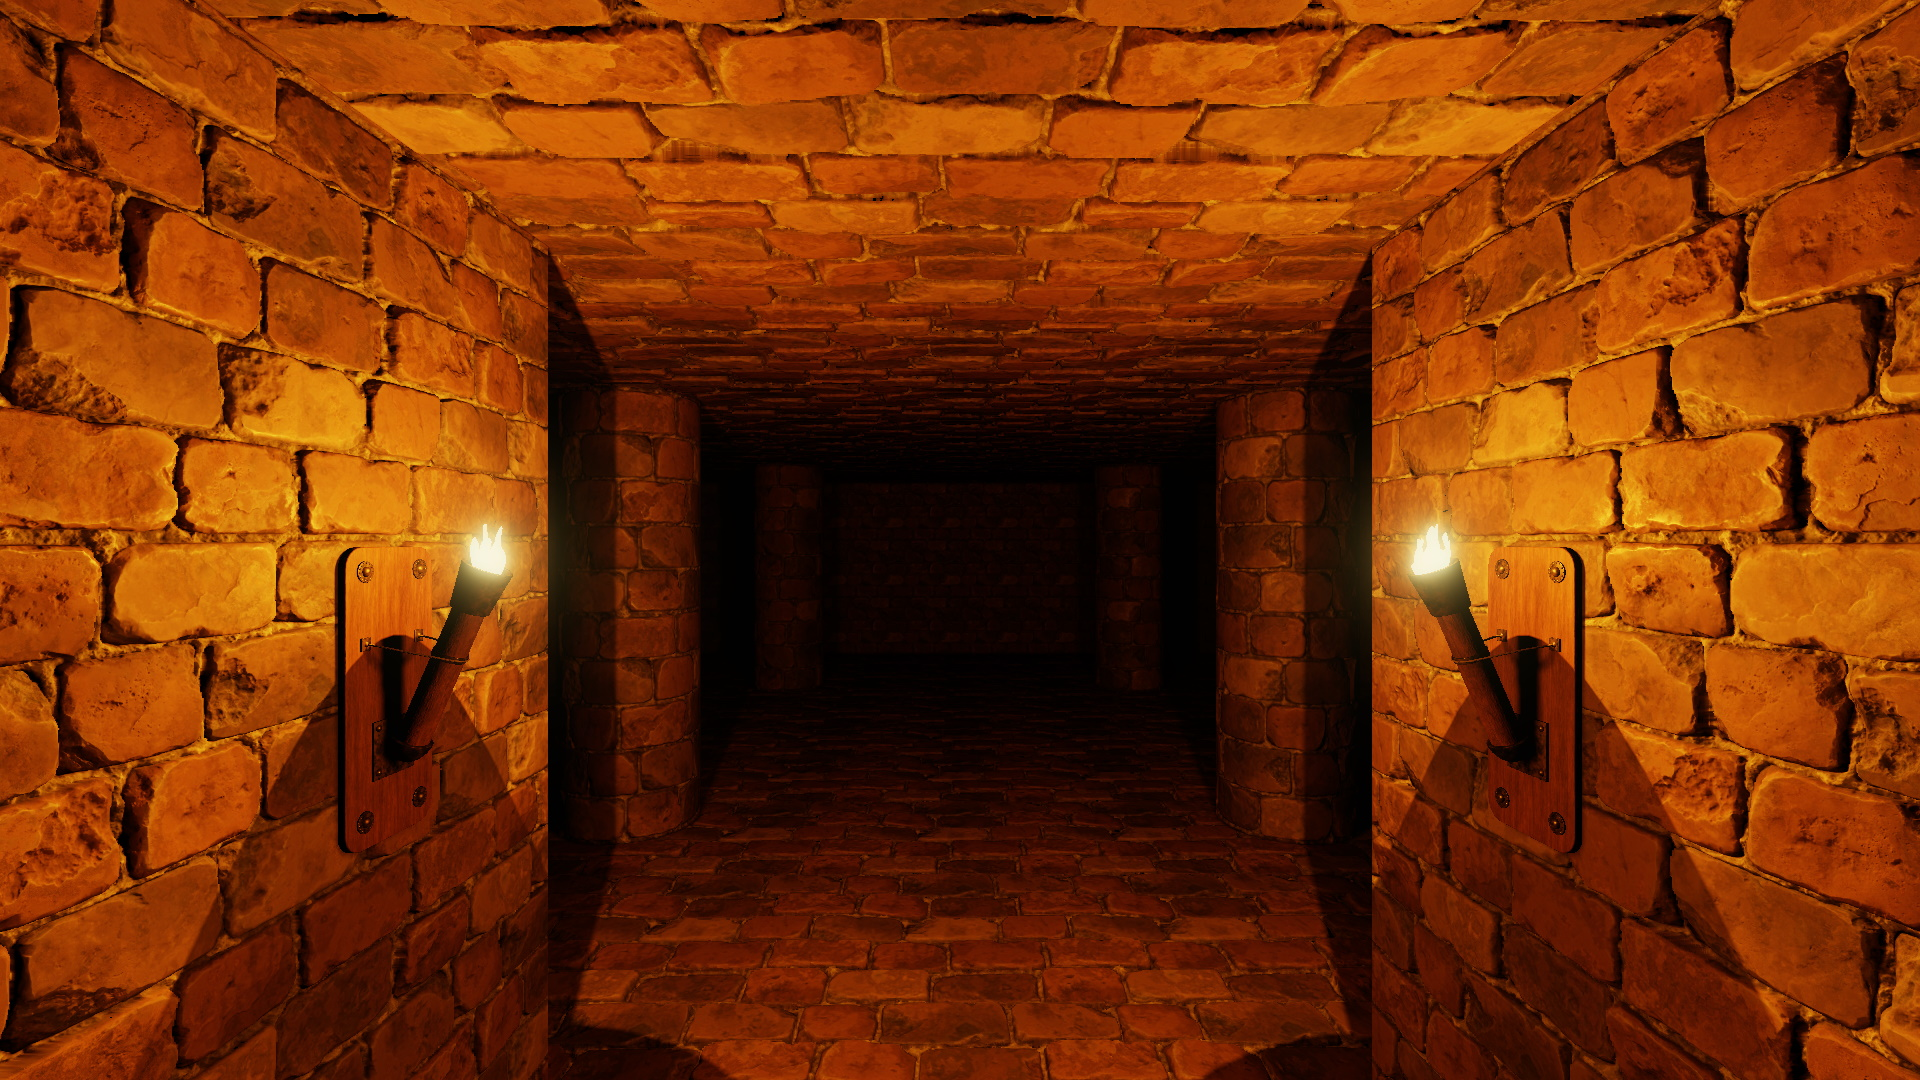
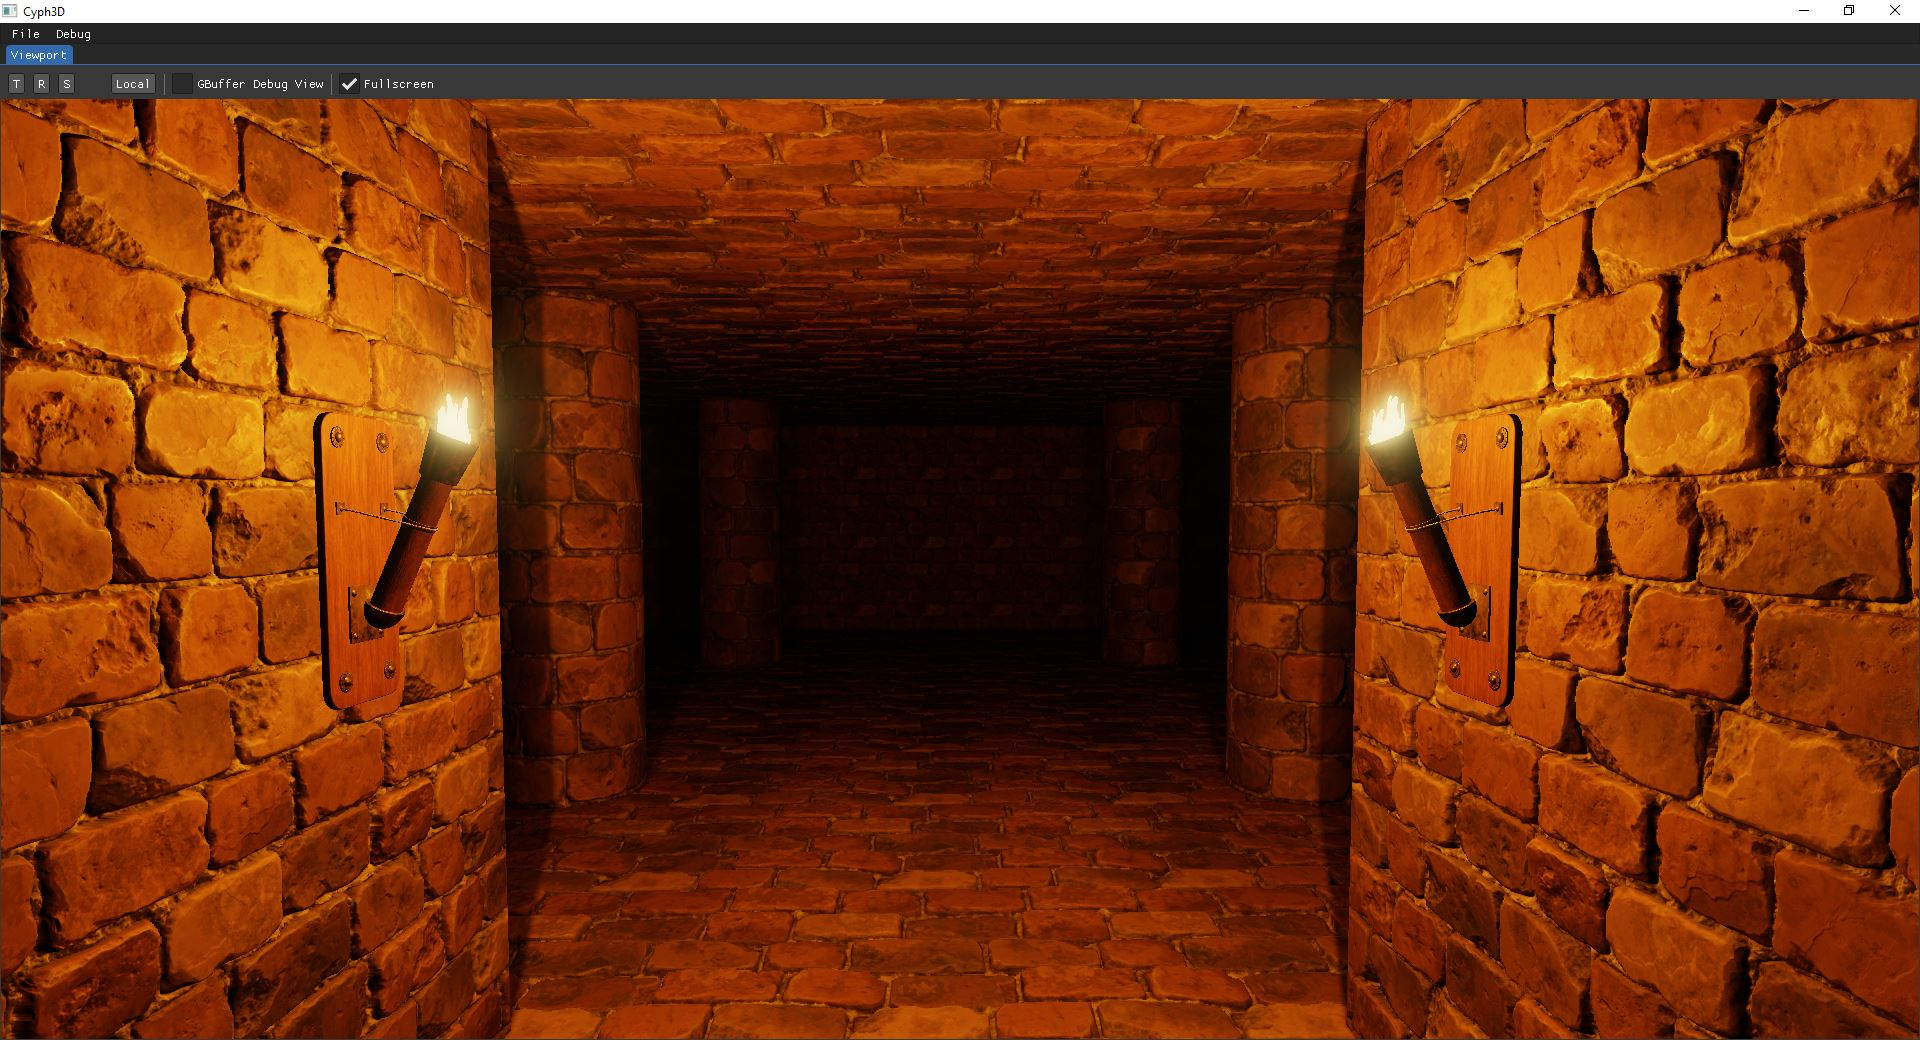
misc: updated screenshots and README

diff --git a/README.md b/README.md
@@ -3,20 +3,19 @@
 This is a simple 3D engine which aims to implement modern photorealistic features.<br/>
 This project is a full C++ rewrite of my [original C# rendering engine](https://github.com/Cyphall/Cyph3D-legacy)
 
-## Controls
+## Viewport Controls
 
-ZQSD: Moving around<br/>
-ESC: Toggle UI<br/>
-CTRL X: Quit
+Hold right click to control the camera and use ZQSD to move
 
 ## Features
 
-#### Core
+### Core
 
 - [x] Deferred Lighting
 - [x] Scene Architecture
+- [x] Entity-Component architecture
 
-#### Shader & Rendering
+### Shaders & Rendering
 
 - [x] PBR Lighting
 - [x] Parallax Occlusion Mapping
@@ -27,21 +26,35 @@ CTRL X: Quit
 - [x] Directional Light Shadows
 - [ ] Cascade Shadow Mapping
 - [x] Anisotropic Filtering
+- [x] Post-processing pipeline
 
-#### UI
+#### Post-processing
+- [x] Exposure
+- [x] ACES Tone mapping
+- [x] Bloom
 
+### UI
+
+- [x] Docking-based UI
+- [x] Gizmos
+  
+#### Windows
+- [x] Viewport
 - [x] Scene Hirarchy
-- [x] Object Inspector
+- [x] Entity Inspector
 - [x] Resources Viewer
-- [ ] Gizmos
+
+#### Viewport gizmos
+- [x] Transform
 
 ## Screenshots
 
 ![](screenshots/01.jpg?raw=true "Dungeon Scene")
 ![](screenshots/02.jpg?raw=true "Spaceship Scene")
-![](screenshots/03.jpg?raw=true "ImGui Interface")
+![](screenshots/03.jpg?raw=true "Cyph3D Interface")
 ![](screenshots/04.jpg?raw=true "Alien Alter Scene #1")
 ![](screenshots/05.jpg?raw=true "Alien Alter Scene #2")
+![](screenshots/06.jpg?raw=true "Egyptian Temple Scene")
 
 ## License
 
